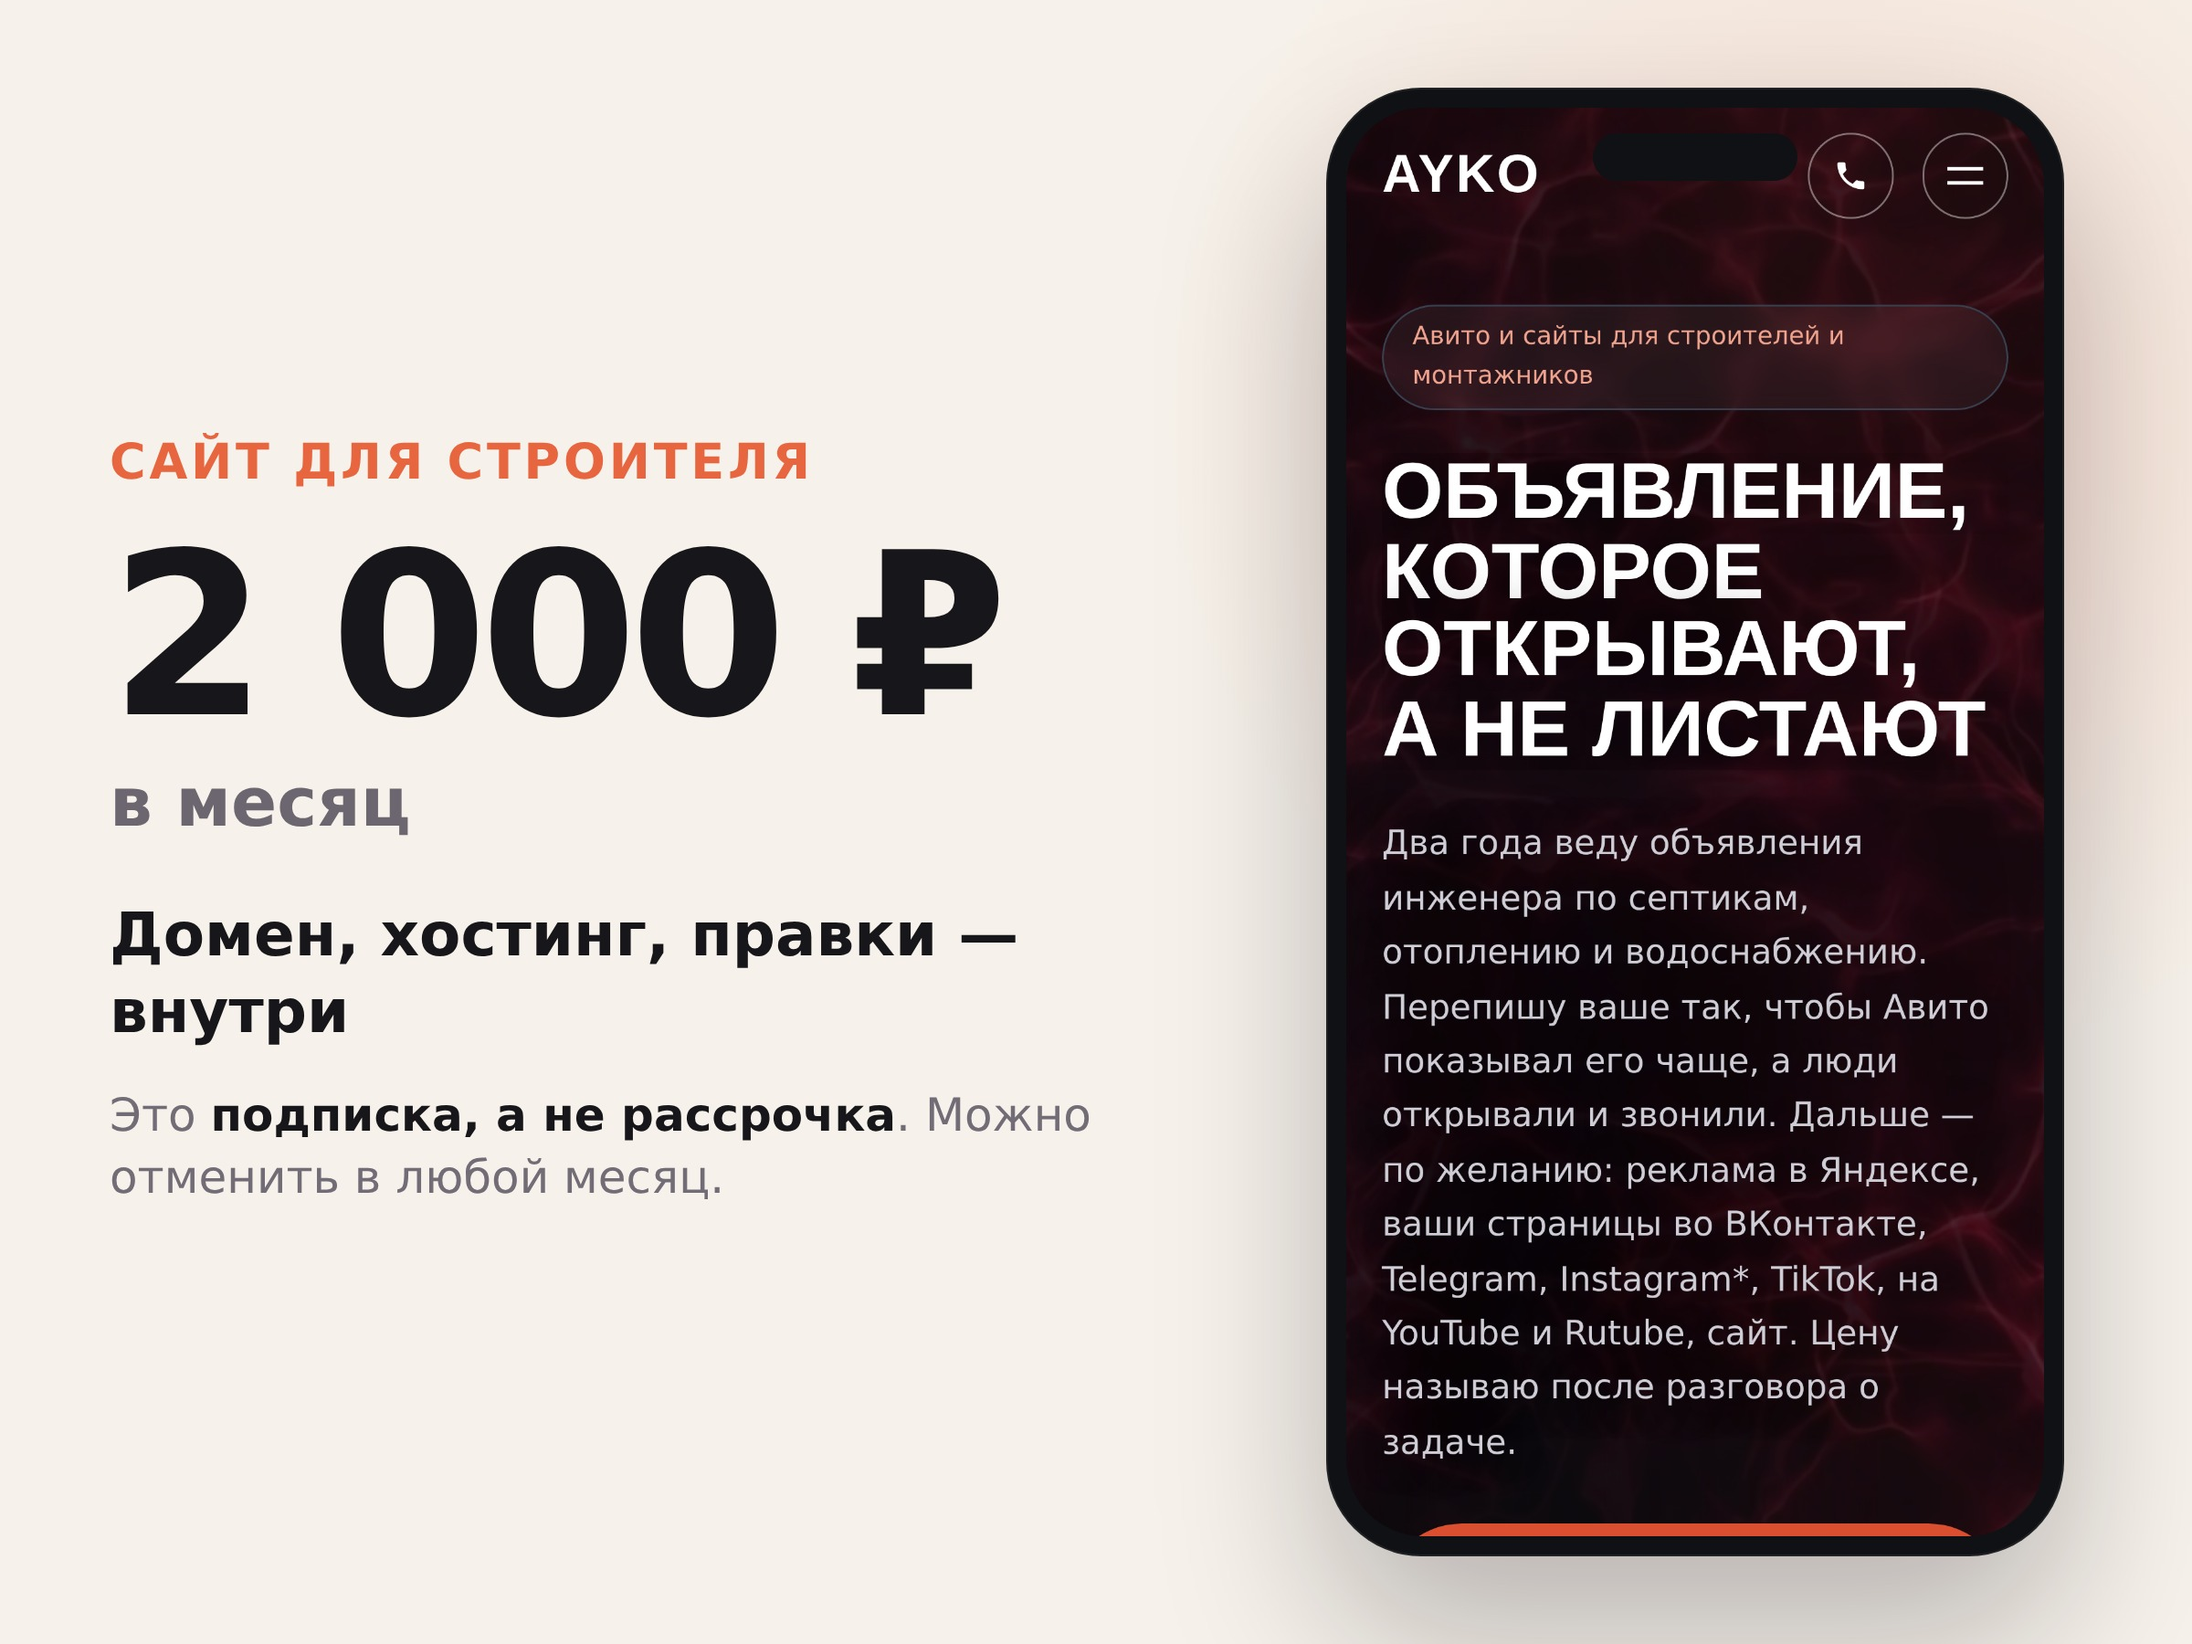
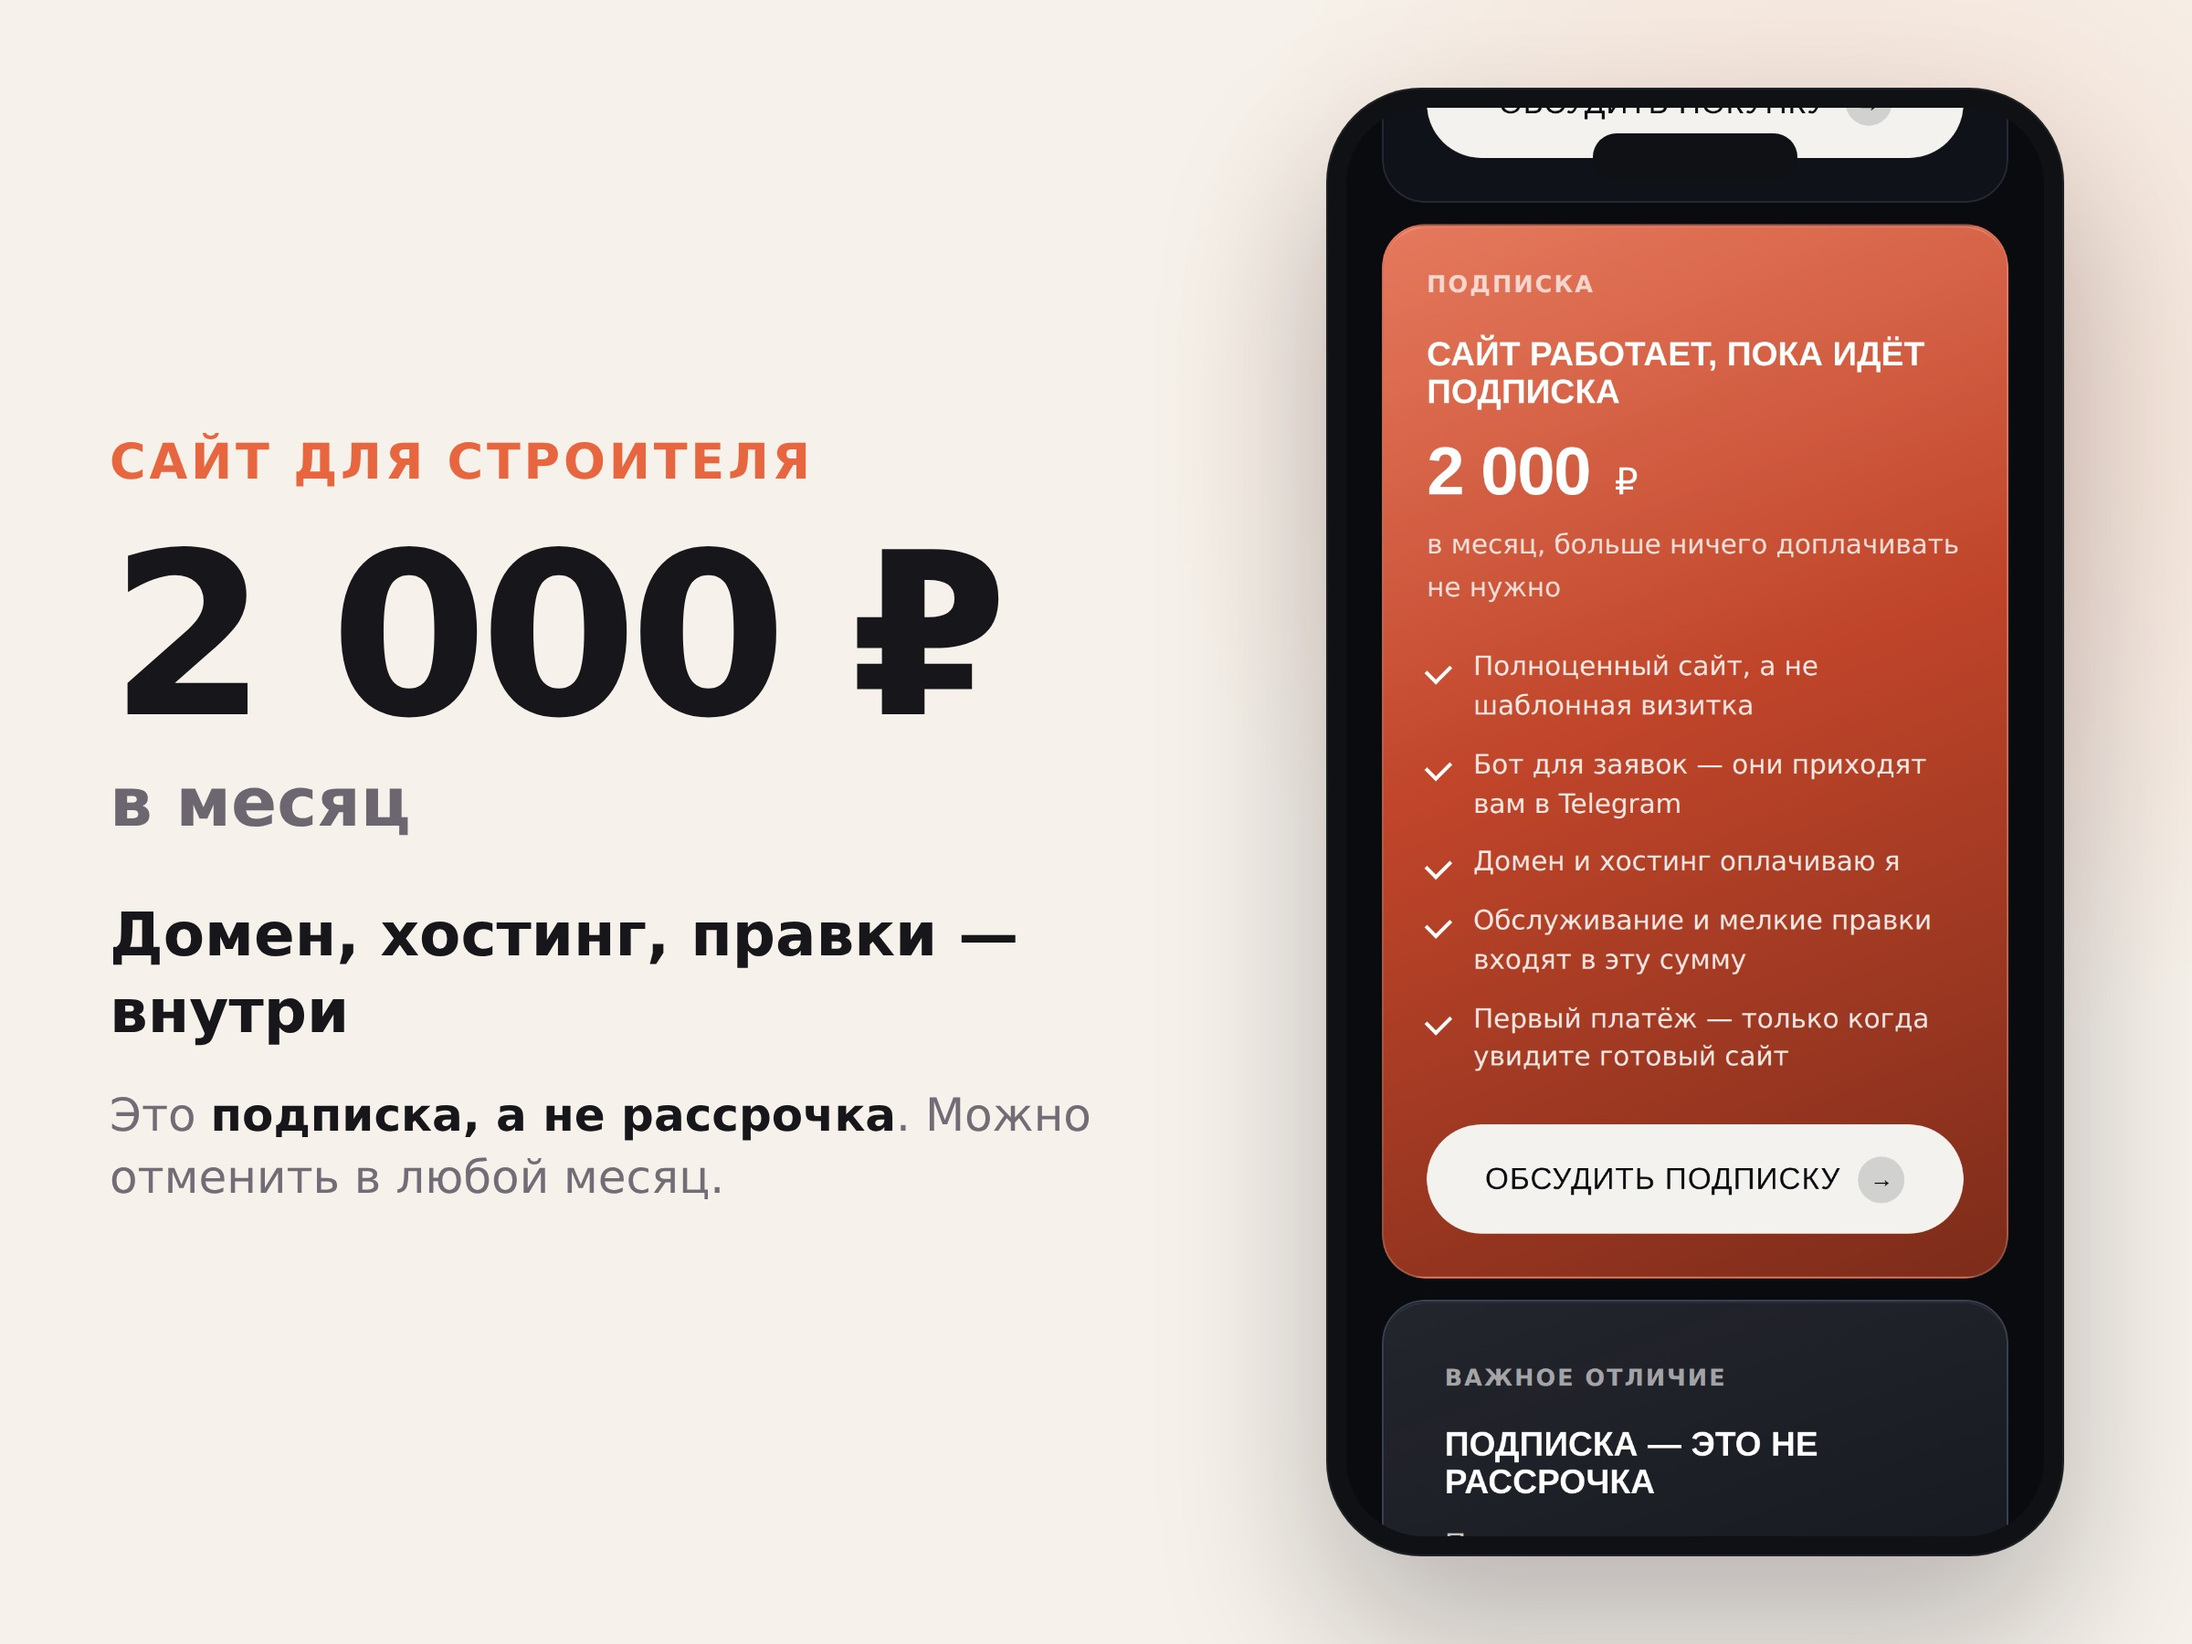
Пересобрал карточку сайта: Авито сняло объявление из-за Instagram в кадре
В карточку был вшит снимок первого экрана сайта, а там в тексте стояло
«Telegram, Instagram*, TikTok». Авито читает текст внутри фотографий
и отклонило объявление.

Снимаю теперь блок с подпиской. Перед сохранением скрипт проверяет, что
в кадр не попали запрещённые слова и что видна цена 2 000, а не 15 000 —
на первой попытке на обложке и на экране стояли разные ценники.

Claude-Session: https://claude.ai/code/session_01Mz94299eM4Py8ny9J3Vrt3

Changed region(s): [[0.5938, 0.0622, 0.9375, 0.9333]]

diff --git a/dnevnik/avito/snimok-sayta.js b/dnevnik/avito/snimok-sayta.js
@@ -1,0 +1,46 @@
+/* Снимок карточки «Подписка — 2 000 ₽»: число на экране телефона должно
+   совпадать с числом на обложке, иначе человек видит два разных ценника.
+   Плюс проверка на слова, за которые Авито сняло объявление.            */
+const { chromium } = require('/opt/node22/lib/node_modules/playwright');
+const STOP = /instagram|facebook|\bmeta\b|инстаграм|фейсбук/i;
+
+(async () => {
+  const b = await chromium.launch();
+  const p = await b.newPage({ viewport: { width: 390, height: 844 }, deviceScaleFactor: 3 });
+  await p.goto('http://127.0.0.1:8777/index.html', { waitUntil: 'networkidle' });
+  await p.addStyleTag({ content: 'html{scroll-behavior:auto !important} *{animation:none !important;transition:none !important}' });
+  await p.evaluate(async () => {
+    for (let y = 0; y < document.body.scrollHeight; y += 300) { window.scrollTo(0, y); await new Promise(r => setTimeout(r, 50)); }
+  });
+  await p.evaluate(() => {
+    // прилипшие панели в кадре смотрятся обрубками — убираем
+    document.querySelectorAll('body *').forEach(e => {
+      if (getComputedStyle(e).position === 'fixed') e.style.display = 'none';
+    });
+    document.querySelector('.tile.tarif.fill').scrollIntoView({ block: 'center' });
+    window.scrollBy(0, 104);   // обрезок чужого абзаца уходит за верхний край
+  });
+  await p.waitForTimeout(900);
+
+  const r = await p.evaluate(() => {
+    const t = document.querySelector('.tile.tarif.fill').getBoundingClientRect();
+    const seen = [];
+    document.querySelectorAll('body *').forEach(e => {
+      const b = e.getBoundingClientRect();
+      if (b.bottom > 0 && b.top < innerHeight && b.width && b.height) {
+        const own = [...e.childNodes].filter(n => n.nodeType === 3).map(n => n.textContent).join(' ').trim();
+        if (own) seen.push(own);
+      }
+    });
+    return { seen: seen.join(' | '), tileTop: Math.round(t.top), tileBottom: Math.round(t.bottom) };
+  });
+
+  const hit = r.seen.match(STOP);
+  if (hit) { console.log('✗ в кадр попало:', hit[0]); await b.close(); process.exit(1); }
+  if (r.seen.includes('15 000')) { console.log('✗ в кадре видна цена 15 000 — спорит с обложкой'); await b.close(); process.exit(1); }
+  if (!r.seen.includes('2 000')) { console.log('✗ цены 2 000 в кадре нет'); await b.close(); process.exit(1); }
+  console.log('✓ в кадре только 2 000 ₽, запрещённых слов нет');
+  console.log('  карточка подписки:', r.tileTop, '→', r.tileBottom, 'из 844');
+  await p.screenshot({ path: '/tmp/claude-0/-home-user--/ab892598-1264-5d65-8d4e-18a2e2b2db93/scratchpad/sayt-telefon.png' });
+  await b.close();
+})();
